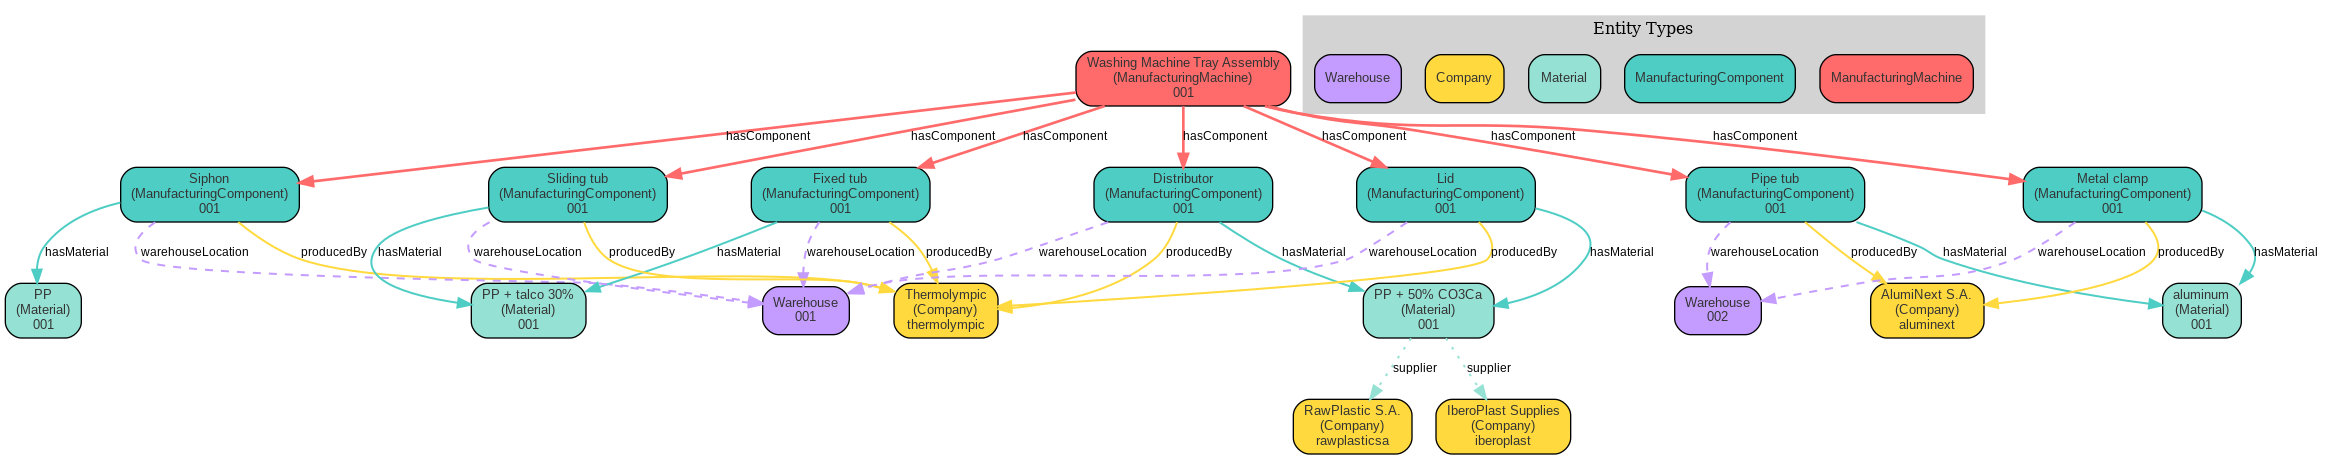
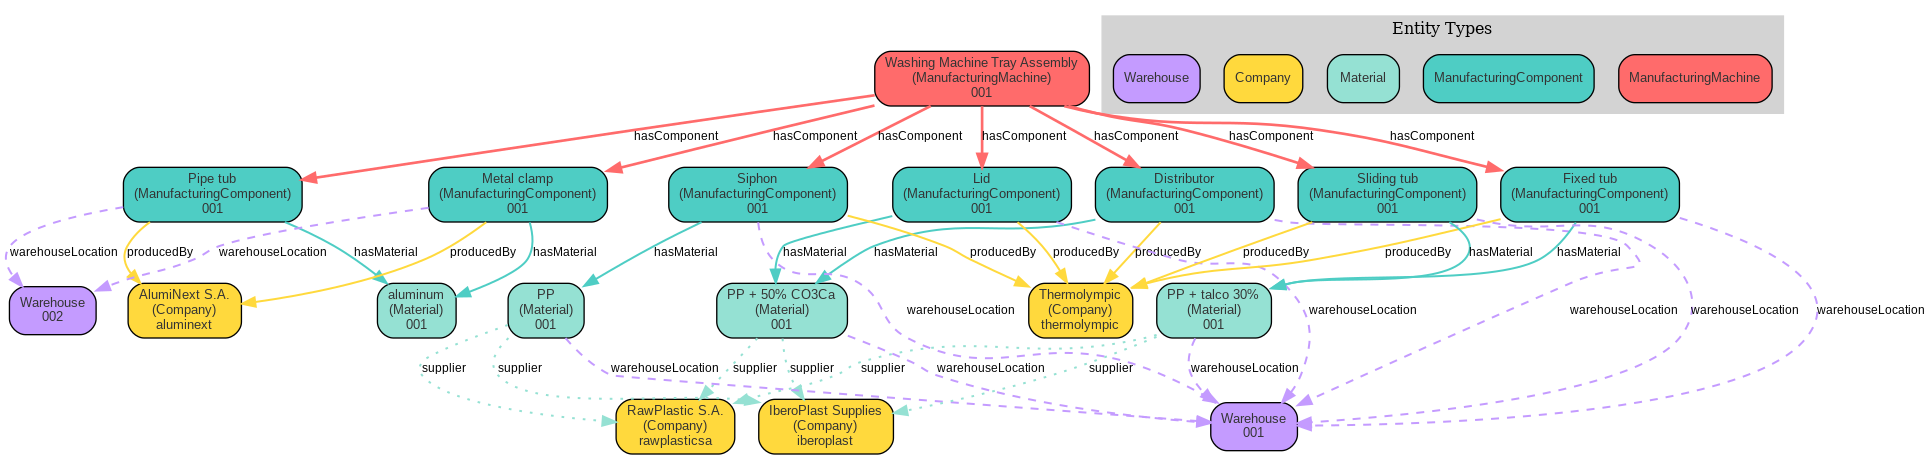
realistic location for spain

Changed region(s): [[0.0, 0.0305, 1.0, 1.0], [0.2175, 0.793, 0.2796, 0.8235]]

diff --git a/circuloos-entities/plastic/washing-machine-tray/washing_machine_interactive.html b/circuloos-entities/plastic/washing-machine-tray/washing_machine_interactive.html
@@ -88,8 +88,8 @@
                   
 
                   // parsing and collecting nodes and edges from the python
-                  nodes = new vis.DataSet([{"color": "#FF6B6B", "font": {"color": "#333333"}, "id": "urn:ngsi-ld:ManufacturingMachine:washingMachineTray:001", "label": "Washing Machine Tray Assembly", "shape": "dot", "size": 40, "title": "Washing Machine Tray Assembly\nType: ManufacturingMachine\nID: 001"}, {"color": "#4ECDC4", "font": {"color": "#333333"}, "id": "urn:ngsi-ld:ManufacturingComponent:siphon:001", "label": "Siphon", "shape": "dot", "size": 30, "title": "Siphon\nType: ManufacturingComponent\nID: 001"}, {"color": "#FFD93D", "font": {"color": "#333333"}, "id": "urn:ngsi-ld:Company:thermolympic", "label": "Thermolympic", "shape": "dot", "size": 25, "title": "Thermolympic\nType: Company\nID: thermolympic"}, {"color": "#95E1D3", "font": {"color": "#333333"}, "id": "urn:ngsi-ld:Material:PP:001", "label": "PP", "shape": "dot", "size": 25, "title": "PP\nType: Material\nID: 001"}, {"color": "#C49BFF", "font": {"color": "#333333"}, "id": "urn:ngsi-ld:Warehouse:001", "label": "Warehouse", "shape": "dot", "size": 25, "title": "Type: Warehouse\nID: 001"}, {"color": "#4ECDC4", "font": {"color": "#333333"}, "id": "urn:ngsi-ld:ManufacturingComponent:distributor:001", "label": "Distributor", "shape": "dot", "size": 30, "title": "Distributor\nType: ManufacturingComponent\nID: 001"}, {"color": "#95E1D3", "font": {"color": "#333333"}, "id": "urn:ngsi-ld:Material:PP50CO3Ca:001", "label": "PP + 50% CO3Ca", "shape": "dot", "size": 25, "title": "PP + 50% CO3Ca\nType: Material\nID: 001"}, {"color": "#FFD93D", "font": {"color": "#333333"}, "id": "urn:ngsi-ld:Company:rawplasticsa", "label": "RawPlastic S.A.", "shape": "dot", "size": 25, "title": "RawPlastic S.A.\nType: Company\nID: rawplasticsa"}, {"color": "#FFD93D", "font": {"color": "#333333"}, "id": "urn:ngsi-ld:Company:iberoplast", "label": "IberoPlast Supplies", "shape": "dot", "size": 25, "title": "IberoPlast Supplies\nType: Company\nID: iberoplast"}, {"color": "#4ECDC4", "font": {"color": "#333333"}, "id": "urn:ngsi-ld:ManufacturingComponent:metalClamp:001", "label": "Metal clamp", "shape": "dot", "size": 30, "title": "Metal clamp\nType: ManufacturingComponent\nID: 001"}, {"color": "#95E1D3", "font": {"color": "#333333"}, "id": "urn:ngsi-ld:Material:aluminum:001", "label": "aluminum", "shape": "dot", "size": 25, "title": "aluminum\nType: Material\nID: 001"}, {"color": "#C49BFF", "font": {"color": "#333333"}, "id": "urn:ngsi-ld:Warehouse:002", "label": "Warehouse", "shape": "dot", "size": 25, "title": "Type: Warehouse\nID: 002"}, {"color": "#FFD93D", "font": {"color": "#333333"}, "id": "urn:ngsi-ld:Company:aluminext", "label": "AlumiNext S.A.", "shape": "dot", "size": 25, "title": "AlumiNext S.A.\nType: Company\nID: aluminext"}, {"color": "#4ECDC4", "font": {"color": "#333333"}, "id": "urn:ngsi-ld:ManufacturingComponent:fixedTub:001", "label": "Fixed tub", "shape": "dot", "size": 30, "title": "Fixed tub\nType: ManufacturingComponent\nID: 001"}, {"color": "#95E1D3", "font": {"color": "#333333"}, "id": "urn:ngsi-ld:Material:PP30Talco:001", "label": "PP + talco 30%", "shape": "dot", "size": 25, "title": "PP + talco 30%\nType: Material\nID: 001"}, {"color": "#4ECDC4", "font": {"color": "#333333"}, "id": "urn:ngsi-ld:ManufacturingComponent:pipeTub:001", "label": "Pipe tub", "shape": "dot", "size": 30, "title": "Pipe tub\nType: ManufacturingComponent\nID: 001"}, {"color": "#4ECDC4", "font": {"color": "#333333"}, "id": "urn:ngsi-ld:ManufacturingComponent:lid:001", "label": "Lid", "shape": "dot", "size": 30, "title": "Lid\nType: ManufacturingComponent\nID: 001"}, {"color": "#4ECDC4", "font": {"color": "#333333"}, "id": "urn:ngsi-ld:ManufacturingComponent:slidingTub:001", "label": "Sliding tub", "shape": "dot", "size": 30, "title": "Sliding tub\nType: ManufacturingComponent\nID: 001"}]);
-                  edges = new vis.DataSet([{"arrows": "to", "color": "#FF6B6B", "from": "urn:ngsi-ld:ManufacturingMachine:washingMachineTray:001", "label": "hasComponent", "title": "hasComponent", "to": "urn:ngsi-ld:ManufacturingComponent:lid:001", "width": 3}, {"arrows": "to", "color": "#FF6B6B", "from": "urn:ngsi-ld:ManufacturingMachine:washingMachineTray:001", "label": "hasComponent", "title": "hasComponent", "to": "urn:ngsi-ld:ManufacturingComponent:distributor:001", "width": 3}, {"arrows": "to", "color": "#FF6B6B", "from": "urn:ngsi-ld:ManufacturingMachine:washingMachineTray:001", "label": "hasComponent", "title": "hasComponent", "to": "urn:ngsi-ld:ManufacturingComponent:fixedTub:001", "width": 3}, {"arrows": "to", "color": "#FF6B6B", "from": "urn:ngsi-ld:ManufacturingMachine:washingMachineTray:001", "label": "hasComponent", "title": "hasComponent", "to": "urn:ngsi-ld:ManufacturingComponent:slidingTub:001", "width": 3}, {"arrows": "to", "color": "#FF6B6B", "from": "urn:ngsi-ld:ManufacturingMachine:washingMachineTray:001", "label": "hasComponent", "title": "hasComponent", "to": "urn:ngsi-ld:ManufacturingComponent:siphon:001", "width": 3}, {"arrows": "to", "color": "#FF6B6B", "from": "urn:ngsi-ld:ManufacturingMachine:washingMachineTray:001", "label": "hasComponent", "title": "hasComponent", "to": "urn:ngsi-ld:ManufacturingComponent:metalClamp:001", "width": 3}, {"arrows": "to", "color": "#FF6B6B", "from": "urn:ngsi-ld:ManufacturingMachine:washingMachineTray:001", "label": "hasComponent", "title": "hasComponent", "to": "urn:ngsi-ld:ManufacturingComponent:pipeTub:001", "width": 3}, {"arrows": "to", "color": "#4ECDC4", "from": "urn:ngsi-ld:ManufacturingComponent:siphon:001", "label": "hasMaterial", "title": "hasMaterial", "to": "urn:ngsi-ld:Material:PP:001", "width": 2}, {"arrows": "to", "color": "#C49BFF", "from": "urn:ngsi-ld:ManufacturingComponent:siphon:001", "label": "warehouseLocation", "title": "warehouseLocation", "to": "urn:ngsi-ld:Warehouse:001", "width": 2}, {"arrows": "to", "color": "#FFD93D", "from": "urn:ngsi-ld:ManufacturingComponent:siphon:001", "label": "producedBy", "title": "producedBy", "to": "urn:ngsi-ld:Company:thermolympic", "width": 2}, {"arrows": "to", "color": "#4ECDC4", "from": "urn:ngsi-ld:ManufacturingComponent:distributor:001", "label": "hasMaterial", "title": "hasMaterial", "to": "urn:ngsi-ld:Material:PP50CO3Ca:001", "width": 2}, {"arrows": "to", "color": "#C49BFF", "from": "urn:ngsi-ld:ManufacturingComponent:distributor:001", "label": "warehouseLocation", "title": "warehouseLocation", "to": "urn:ngsi-ld:Warehouse:001", "width": 2}, {"arrows": "to", "color": "#FFD93D", "from": "urn:ngsi-ld:ManufacturingComponent:distributor:001", "label": "producedBy", "title": "producedBy", "to": "urn:ngsi-ld:Company:thermolympic", "width": 2}, {"arrows": "to", "color": "#95E1D3", "from": "urn:ngsi-ld:Material:PP50CO3Ca:001", "label": "supplier", "title": "supplier", "to": "urn:ngsi-ld:Company:rawplasticsa", "width": 1.5}, {"arrows": "to", "color": "#95E1D3", "from": "urn:ngsi-ld:Material:PP50CO3Ca:001", "label": "supplier", "title": "supplier", "to": "urn:ngsi-ld:Company:iberoplast", "width": 1.5}, {"arrows": "to", "color": "#4ECDC4", "from": "urn:ngsi-ld:ManufacturingComponent:metalClamp:001", "label": "hasMaterial", "title": "hasMaterial", "to": "urn:ngsi-ld:Material:aluminum:001", "width": 2}, {"arrows": "to", "color": "#C49BFF", "from": "urn:ngsi-ld:ManufacturingComponent:metalClamp:001", "label": "warehouseLocation", "title": "warehouseLocation", "to": "urn:ngsi-ld:Warehouse:002", "width": 2}, {"arrows": "to", "color": "#FFD93D", "from": "urn:ngsi-ld:ManufacturingComponent:metalClamp:001", "label": "producedBy", "title": "producedBy", "to": "urn:ngsi-ld:Company:aluminext", "width": 2}, {"arrows": "to", "color": "#4ECDC4", "from": "urn:ngsi-ld:ManufacturingComponent:fixedTub:001", "label": "hasMaterial", "title": "hasMaterial", "to": "urn:ngsi-ld:Material:PP30Talco:001", "width": 2}, {"arrows": "to", "color": "#C49BFF", "from": "urn:ngsi-ld:ManufacturingComponent:fixedTub:001", "label": "warehouseLocation", "title": "warehouseLocation", "to": "urn:ngsi-ld:Warehouse:001", "width": 2}, {"arrows": "to", "color": "#FFD93D", "from": "urn:ngsi-ld:ManufacturingComponent:fixedTub:001", "label": "producedBy", "title": "producedBy", "to": "urn:ngsi-ld:Company:thermolympic", "width": 2}, {"arrows": "to", "color": "#4ECDC4", "from": "urn:ngsi-ld:ManufacturingComponent:pipeTub:001", "label": "hasMaterial", "title": "hasMaterial", "to": "urn:ngsi-ld:Material:aluminum:001", "width": 2}, {"arrows": "to", "color": "#C49BFF", "from": "urn:ngsi-ld:ManufacturingComponent:pipeTub:001", "label": "warehouseLocation", "title": "warehouseLocation", "to": "urn:ngsi-ld:Warehouse:002", "width": 2}, {"arrows": "to", "color": "#FFD93D", "from": "urn:ngsi-ld:ManufacturingComponent:pipeTub:001", "label": "producedBy", "title": "producedBy", "to": "urn:ngsi-ld:Company:aluminext", "width": 2}, {"arrows": "to", "color": "#4ECDC4", "from": "urn:ngsi-ld:ManufacturingComponent:lid:001", "label": "hasMaterial", "title": "hasMaterial", "to": "urn:ngsi-ld:Material:PP50CO3Ca:001", "width": 2}, {"arrows": "to", "color": "#C49BFF", "from": "urn:ngsi-ld:ManufacturingComponent:lid:001", "label": "warehouseLocation", "title": "warehouseLocation", "to": "urn:ngsi-ld:Warehouse:001", "width": 2}, {"arrows": "to", "color": "#FFD93D", "from": "urn:ngsi-ld:ManufacturingComponent:lid:001", "label": "producedBy", "title": "producedBy", "to": "urn:ngsi-ld:Company:thermolympic", "width": 2}, {"arrows": "to", "color": "#4ECDC4", "from": "urn:ngsi-ld:ManufacturingComponent:slidingTub:001", "label": "hasMaterial", "title": "hasMaterial", "to": "urn:ngsi-ld:Material:PP30Talco:001", "width": 2}, {"arrows": "to", "color": "#C49BFF", "from": "urn:ngsi-ld:ManufacturingComponent:slidingTub:001", "label": "warehouseLocation", "title": "warehouseLocation", "to": "urn:ngsi-ld:Warehouse:001", "width": 2}, {"arrows": "to", "color": "#FFD93D", "from": "urn:ngsi-ld:ManufacturingComponent:slidingTub:001", "label": "producedBy", "title": "producedBy", "to": "urn:ngsi-ld:Company:thermolympic", "width": 2}]);
+                  nodes = new vis.DataSet([{"color": "#FF6B6B", "font": {"color": "#333333"}, "id": "urn:ngsi-ld:ManufacturingMachine:washingMachineTray:001", "label": "Washing Machine Tray Assembly", "shape": "dot", "size": 40, "title": "Washing Machine Tray Assembly\nType: ManufacturingMachine\nID: 001"}, {"color": "#4ECDC4", "font": {"color": "#333333"}, "id": "urn:ngsi-ld:ManufacturingComponent:pipeTub:001", "label": "Pipe tub", "shape": "dot", "size": 30, "title": "Pipe tub\nType: ManufacturingComponent\nID: 001"}, {"color": "#C49BFF", "font": {"color": "#333333"}, "id": "urn:ngsi-ld:Warehouse:002", "label": "Warehouse", "shape": "dot", "size": 25, "title": "Type: Warehouse\nID: 002"}, {"color": "#FFD93D", "font": {"color": "#333333"}, "id": "urn:ngsi-ld:Company:aluminext", "label": "AlumiNext S.A.", "shape": "dot", "size": 25, "title": "AlumiNext S.A.\nType: Company\nID: aluminext"}, {"color": "#95E1D3", "font": {"color": "#333333"}, "id": "urn:ngsi-ld:Material:aluminum:001", "label": "aluminum", "shape": "dot", "size": 25, "title": "aluminum\nType: Material\nID: 001"}, {"color": "#4ECDC4", "font": {"color": "#333333"}, "id": "urn:ngsi-ld:ManufacturingComponent:metalClamp:001", "label": "Metal clamp", "shape": "dot", "size": 30, "title": "Metal clamp\nType: ManufacturingComponent\nID: 001"}, {"color": "#4ECDC4", "font": {"color": "#333333"}, "id": "urn:ngsi-ld:ManufacturingComponent:distributor:001", "label": "Distributor", "shape": "dot", "size": 30, "title": "Distributor\nType: ManufacturingComponent\nID: 001"}, {"color": "#FFD93D", "font": {"color": "#333333"}, "id": "urn:ngsi-ld:Company:thermolympic", "label": "Thermolympic", "shape": "dot", "size": 25, "title": "Thermolympic\nType: Company\nID: thermolympic"}, {"color": "#95E1D3", "font": {"color": "#333333"}, "id": "urn:ngsi-ld:Material:PP50CO3Ca:001", "label": "PP + 50% CO3Ca", "shape": "dot", "size": 25, "title": "PP + 50% CO3Ca\nType: Material\nID: 001"}, {"color": "#C49BFF", "font": {"color": "#333333"}, "id": "urn:ngsi-ld:Warehouse:001", "label": "Warehouse", "shape": "dot", "size": 25, "title": "Type: Warehouse\nID: 001"}, {"color": "#FFD93D", "font": {"color": "#333333"}, "id": "urn:ngsi-ld:Company:iberoplast", "label": "IberoPlast Supplies", "shape": "dot", "size": 25, "title": "IberoPlast Supplies\nType: Company\nID: iberoplast"}, {"color": "#FFD93D", "font": {"color": "#333333"}, "id": "urn:ngsi-ld:Company:rawplasticsa", "label": "RawPlastic S.A.", "shape": "dot", "size": 25, "title": "RawPlastic S.A.\nType: Company\nID: rawplasticsa"}, {"color": "#4ECDC4", "font": {"color": "#333333"}, "id": "urn:ngsi-ld:ManufacturingComponent:lid:001", "label": "Lid", "shape": "dot", "size": 30, "title": "Lid\nType: ManufacturingComponent\nID: 001"}, {"color": "#4ECDC4", "font": {"color": "#333333"}, "id": "urn:ngsi-ld:ManufacturingComponent:siphon:001", "label": "Siphon", "shape": "dot", "size": 30, "title": "Siphon\nType: ManufacturingComponent\nID: 001"}, {"color": "#95E1D3", "font": {"color": "#333333"}, "id": "urn:ngsi-ld:Material:PP:001", "label": "PP", "shape": "dot", "size": 25, "title": "PP\nType: Material\nID: 001"}, {"color": "#4ECDC4", "font": {"color": "#333333"}, "id": "urn:ngsi-ld:ManufacturingComponent:fixedTub:001", "label": "Fixed tub", "shape": "dot", "size": 30, "title": "Fixed tub\nType: ManufacturingComponent\nID: 001"}, {"color": "#95E1D3", "font": {"color": "#333333"}, "id": "urn:ngsi-ld:Material:PP30Talco:001", "label": "PP + talco 30%", "shape": "dot", "size": 25, "title": "PP + talco 30%\nType: Material\nID: 001"}, {"color": "#4ECDC4", "font": {"color": "#333333"}, "id": "urn:ngsi-ld:ManufacturingComponent:slidingTub:001", "label": "Sliding tub", "shape": "dot", "size": 30, "title": "Sliding tub\nType: ManufacturingComponent\nID: 001"}]);
+                  edges = new vis.DataSet([{"arrows": "to", "color": "#FF6B6B", "from": "urn:ngsi-ld:ManufacturingMachine:washingMachineTray:001", "label": "hasComponent", "title": "hasComponent", "to": "urn:ngsi-ld:ManufacturingComponent:lid:001", "width": 3}, {"arrows": "to", "color": "#FF6B6B", "from": "urn:ngsi-ld:ManufacturingMachine:washingMachineTray:001", "label": "hasComponent", "title": "hasComponent", "to": "urn:ngsi-ld:ManufacturingComponent:distributor:001", "width": 3}, {"arrows": "to", "color": "#FF6B6B", "from": "urn:ngsi-ld:ManufacturingMachine:washingMachineTray:001", "label": "hasComponent", "title": "hasComponent", "to": "urn:ngsi-ld:ManufacturingComponent:fixedTub:001", "width": 3}, {"arrows": "to", "color": "#FF6B6B", "from": "urn:ngsi-ld:ManufacturingMachine:washingMachineTray:001", "label": "hasComponent", "title": "hasComponent", "to": "urn:ngsi-ld:ManufacturingComponent:slidingTub:001", "width": 3}, {"arrows": "to", "color": "#FF6B6B", "from": "urn:ngsi-ld:ManufacturingMachine:washingMachineTray:001", "label": "hasComponent", "title": "hasComponent", "to": "urn:ngsi-ld:ManufacturingComponent:siphon:001", "width": 3}, {"arrows": "to", "color": "#FF6B6B", "from": "urn:ngsi-ld:ManufacturingMachine:washingMachineTray:001", "label": "hasComponent", "title": "hasComponent", "to": "urn:ngsi-ld:ManufacturingComponent:metalClamp:001", "width": 3}, {"arrows": "to", "color": "#FF6B6B", "from": "urn:ngsi-ld:ManufacturingMachine:washingMachineTray:001", "label": "hasComponent", "title": "hasComponent", "to": "urn:ngsi-ld:ManufacturingComponent:pipeTub:001", "width": 3}, {"arrows": "to", "color": "#4ECDC4", "from": "urn:ngsi-ld:ManufacturingComponent:pipeTub:001", "label": "hasMaterial", "title": "hasMaterial", "to": "urn:ngsi-ld:Material:aluminum:001", "width": 2}, {"arrows": "to", "color": "#C49BFF", "from": "urn:ngsi-ld:ManufacturingComponent:pipeTub:001", "label": "warehouseLocation", "title": "warehouseLocation", "to": "urn:ngsi-ld:Warehouse:002", "width": 2}, {"arrows": "to", "color": "#FFD93D", "from": "urn:ngsi-ld:ManufacturingComponent:pipeTub:001", "label": "producedBy", "title": "producedBy", "to": "urn:ngsi-ld:Company:aluminext", "width": 2}, {"arrows": "to", "color": "#4ECDC4", "from": "urn:ngsi-ld:ManufacturingComponent:metalClamp:001", "label": "hasMaterial", "title": "hasMaterial", "to": "urn:ngsi-ld:Material:aluminum:001", "width": 2}, {"arrows": "to", "color": "#C49BFF", "from": "urn:ngsi-ld:ManufacturingComponent:metalClamp:001", "label": "warehouseLocation", "title": "warehouseLocation", "to": "urn:ngsi-ld:Warehouse:002", "width": 2}, {"arrows": "to", "color": "#FFD93D", "from": "urn:ngsi-ld:ManufacturingComponent:metalClamp:001", "label": "producedBy", "title": "producedBy", "to": "urn:ngsi-ld:Company:aluminext", "width": 2}, {"arrows": "to", "color": "#4ECDC4", "from": "urn:ngsi-ld:ManufacturingComponent:distributor:001", "label": "hasMaterial", "title": "hasMaterial", "to": "urn:ngsi-ld:Material:PP50CO3Ca:001", "width": 2}, {"arrows": "to", "color": "#C49BFF", "from": "urn:ngsi-ld:ManufacturingComponent:distributor:001", "label": "warehouseLocation", "title": "warehouseLocation", "to": "urn:ngsi-ld:Warehouse:001", "width": 2}, {"arrows": "to", "color": "#FFD93D", "from": "urn:ngsi-ld:ManufacturingComponent:distributor:001", "label": "producedBy", "title": "producedBy", "to": "urn:ngsi-ld:Company:thermolympic", "width": 2}, {"arrows": "to", "color": "#95E1D3", "from": "urn:ngsi-ld:Material:PP50CO3Ca:001", "label": "supplier", "title": "supplier", "to": "urn:ngsi-ld:Company:rawplasticsa", "width": 1.5}, {"arrows": "to", "color": "#95E1D3", "from": "urn:ngsi-ld:Material:PP50CO3Ca:001", "label": "supplier", "title": "supplier", "to": "urn:ngsi-ld:Company:iberoplast", "width": 1.5}, {"arrows": "to", "color": "#C49BFF", "from": "urn:ngsi-ld:Material:PP50CO3Ca:001", "label": "warehouseLocation", "title": "warehouseLocation", "to": "urn:ngsi-ld:Warehouse:001", "width": 2}, {"arrows": "to", "color": "#4ECDC4", "from": "urn:ngsi-ld:ManufacturingComponent:lid:001", "label": "hasMaterial", "title": "hasMaterial", "to": "urn:ngsi-ld:Material:PP50CO3Ca:001", "width": 2}, {"arrows": "to", "color": "#C49BFF", "from": "urn:ngsi-ld:ManufacturingComponent:lid:001", "label": "warehouseLocation", "title": "warehouseLocation", "to": "urn:ngsi-ld:Warehouse:001", "width": 2}, {"arrows": "to", "color": "#FFD93D", "from": "urn:ngsi-ld:ManufacturingComponent:lid:001", "label": "producedBy", "title": "producedBy", "to": "urn:ngsi-ld:Company:thermolympic", "width": 2}, {"arrows": "to", "color": "#4ECDC4", "from": "urn:ngsi-ld:ManufacturingComponent:siphon:001", "label": "hasMaterial", "title": "hasMaterial", "to": "urn:ngsi-ld:Material:PP:001", "width": 2}, {"arrows": "to", "color": "#C49BFF", "from": "urn:ngsi-ld:ManufacturingComponent:siphon:001", "label": "warehouseLocation", "title": "warehouseLocation", "to": "urn:ngsi-ld:Warehouse:001", "width": 2}, {"arrows": "to", "color": "#FFD93D", "from": "urn:ngsi-ld:ManufacturingComponent:siphon:001", "label": "producedBy", "title": "producedBy", "to": "urn:ngsi-ld:Company:thermolympic", "width": 2}, {"arrows": "to", "color": "#95E1D3", "from": "urn:ngsi-ld:Material:PP:001", "label": "supplier", "title": "supplier", "to": "urn:ngsi-ld:Company:rawplasticsa", "width": 1.5}, {"arrows": "to", "color": "#95E1D3", "from": "urn:ngsi-ld:Material:PP:001", "label": "supplier", "title": "supplier", "to": "urn:ngsi-ld:Company:iberoplast", "width": 1.5}, {"arrows": "to", "color": "#C49BFF", "from": "urn:ngsi-ld:Material:PP:001", "label": "warehouseLocation", "title": "warehouseLocation", "to": "urn:ngsi-ld:Warehouse:001", "width": 2}, {"arrows": "to", "color": "#4ECDC4", "from": "urn:ngsi-ld:ManufacturingComponent:fixedTub:001", "label": "hasMaterial", "title": "hasMaterial", "to": "urn:ngsi-ld:Material:PP30Talco:001", "width": 2}, {"arrows": "to", "color": "#C49BFF", "from": "urn:ngsi-ld:ManufacturingComponent:fixedTub:001", "label": "warehouseLocation", "title": "warehouseLocation", "to": "urn:ngsi-ld:Warehouse:001", "width": 2}, {"arrows": "to", "color": "#FFD93D", "from": "urn:ngsi-ld:ManufacturingComponent:fixedTub:001", "label": "producedBy", "title": "producedBy", "to": "urn:ngsi-ld:Company:thermolympic", "width": 2}, {"arrows": "to", "color": "#95E1D3", "from": "urn:ngsi-ld:Material:PP30Talco:001", "label": "supplier", "title": "supplier", "to": "urn:ngsi-ld:Company:rawplasticsa", "width": 1.5}, {"arrows": "to", "color": "#95E1D3", "from": "urn:ngsi-ld:Material:PP30Talco:001", "label": "supplier", "title": "supplier", "to": "urn:ngsi-ld:Company:iberoplast", "width": 1.5}, {"arrows": "to", "color": "#C49BFF", "from": "urn:ngsi-ld:Material:PP30Talco:001", "label": "warehouseLocation", "title": "warehouseLocation", "to": "urn:ngsi-ld:Warehouse:001", "width": 2}, {"arrows": "to", "color": "#4ECDC4", "from": "urn:ngsi-ld:ManufacturingComponent:slidingTub:001", "label": "hasMaterial", "title": "hasMaterial", "to": "urn:ngsi-ld:Material:PP30Talco:001", "width": 2}, {"arrows": "to", "color": "#C49BFF", "from": "urn:ngsi-ld:ManufacturingComponent:slidingTub:001", "label": "warehouseLocation", "title": "warehouseLocation", "to": "urn:ngsi-ld:Warehouse:001", "width": 2}, {"arrows": "to", "color": "#FFD93D", "from": "urn:ngsi-ld:ManufacturingComponent:slidingTub:001", "label": "producedBy", "title": "producedBy", "to": "urn:ngsi-ld:Company:thermolympic", "width": 2}]);
 
                   nodeColors = {};
                   allNodes = nodes.get({ returnType: "Object" });
